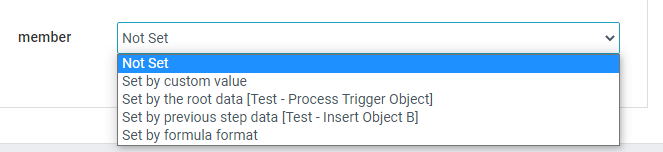
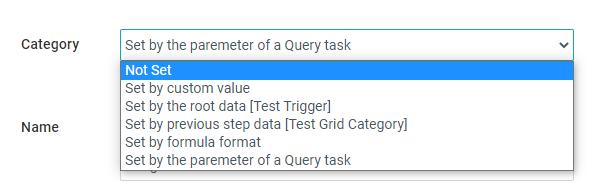
Update insert task with options to use query parameters.

Changed region(s): [[0.0, 0.1316, 1.0, 1.0]]

diff --git a/user/processes/insertRecordTask/InsertRecordTask.md b/user/processes/insertRecordTask/InsertRecordTask.md
@@ -3,6 +3,7 @@ title: System Task&#58; Insert Record
 description: dynamically create records from a process
 category: process
 ---
+
 This is a task that can be added to a process to insert a record using relevant data from the process.
 
 ## Add the task
@@ -40,19 +41,25 @@ This is similar to using the root data, but instead looks to values in a previou
 
 This allows a formula to be used to set the value. Both number and text formulas are supported. This requires a specific syntax:
 
-- `startData` - this is to access the record that triggered the process
-- `previousData` - this is used to access the record in the previous step
-- use `.column` or `["Long Name"]` format to access the fields in the records (note: use column name not label)
+- `[startData.FIELDNAME]` - this is to access the record that triggered the process
+- `[previousData.FIELDNAME]` - this is used to access the record in the previous step
+- `[QUERY_TASK_NAME.PARAMETER_NAME]` - this access a parameter saved from a previous query task. QUERY_TASK_NAME represents the name entered in the query task's properties and PARAMETER_NAME is what was used to save the plucked data within the query.
 - `__relation.` can be used after a connected record field to access fields of the connected record
 - For Strings use a `new String()` constructor with a [template string](https://developers.google.com/web/updates/2015/01/ES6-Template-Strings)
 
 **Examples**
 
-- `previousData.Number + 50`
-- `` new String(`Hello ${startData["First Name"]} !`) ``
-- `` new String(`Team: ${startData.Team__relation.Name}`) ``
+- `[previousData.Number] + 50`
+- `` new String(`Team: ${[startData.Team__relation.Name]}`) ``
+
+#### Set by the parameter of a Query Task.
+
+This allows you to use data saved from a Query Task. You will see a list of available parameters. Multiple values can be selected, but the first one with a value will be used. This is intended for when a process has multiple paths it could follow to get to the insert task.
+
+![](images/queryParamater.png)
 
 ## Multiple Instances
+
 This task can be repeated multiple times using the bpmn multiple instance marker ({% include icon.html i='fa-bars' %}).
 
 Add the marker from the wrench ({% include icon.html i='fa-wrench' %}) menu on the task. After adding the marker a **repeat** option is available in the task properties. A connected record field (from the process object) can be selected. This will cause the task to repeat for each connected record attached to the process object. The connected record values are available to set the inserted values, using the 'Instance Data'.
